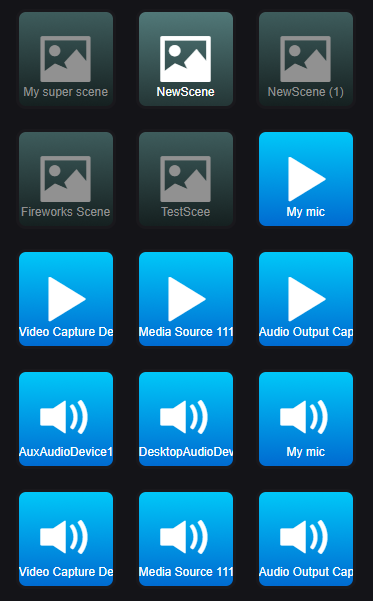
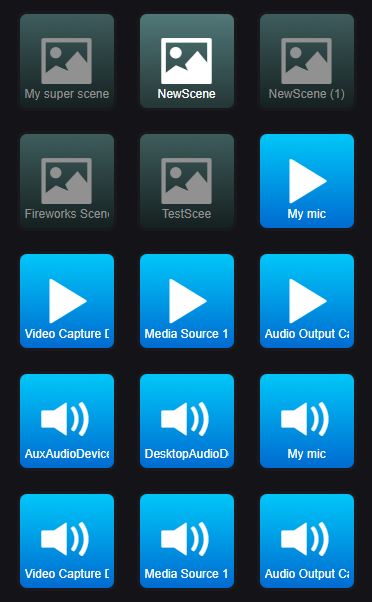
fix css

diff --git a/index.html b/index.html
@@ -433,9 +433,10 @@
 
   .deck-button .name {
     display: block;
-    width: 100%;
     position: absolute;
     bottom: 5px;
+    left: 5px;
+    right: 5px;
     overflow: hidden;
     white-space: nowrap;
   }
